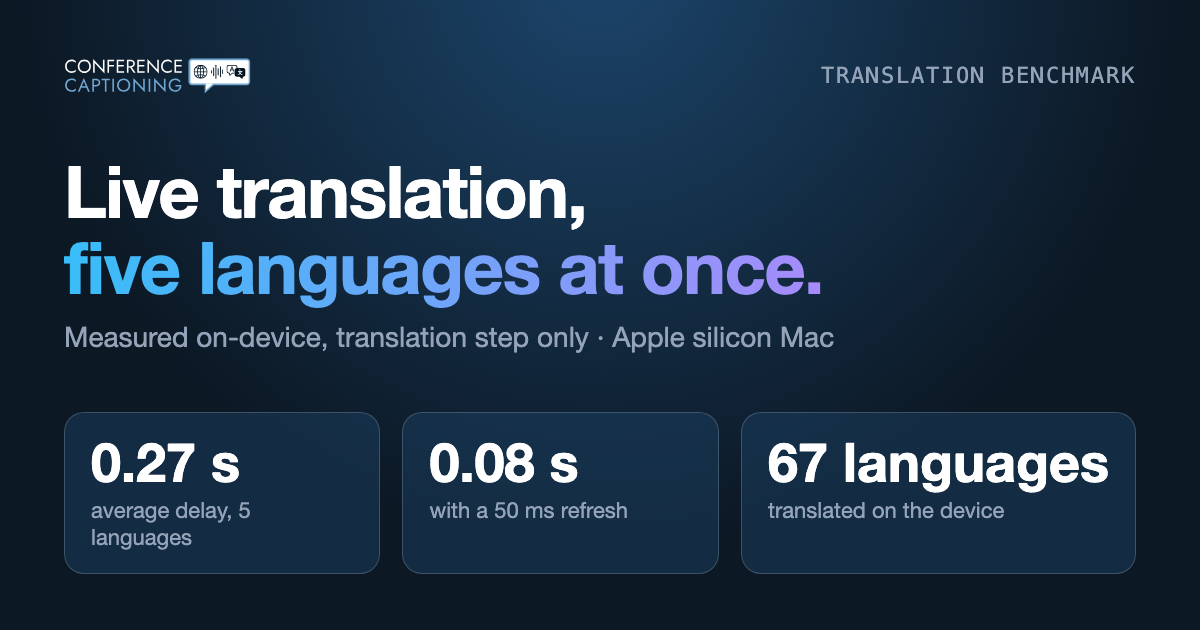
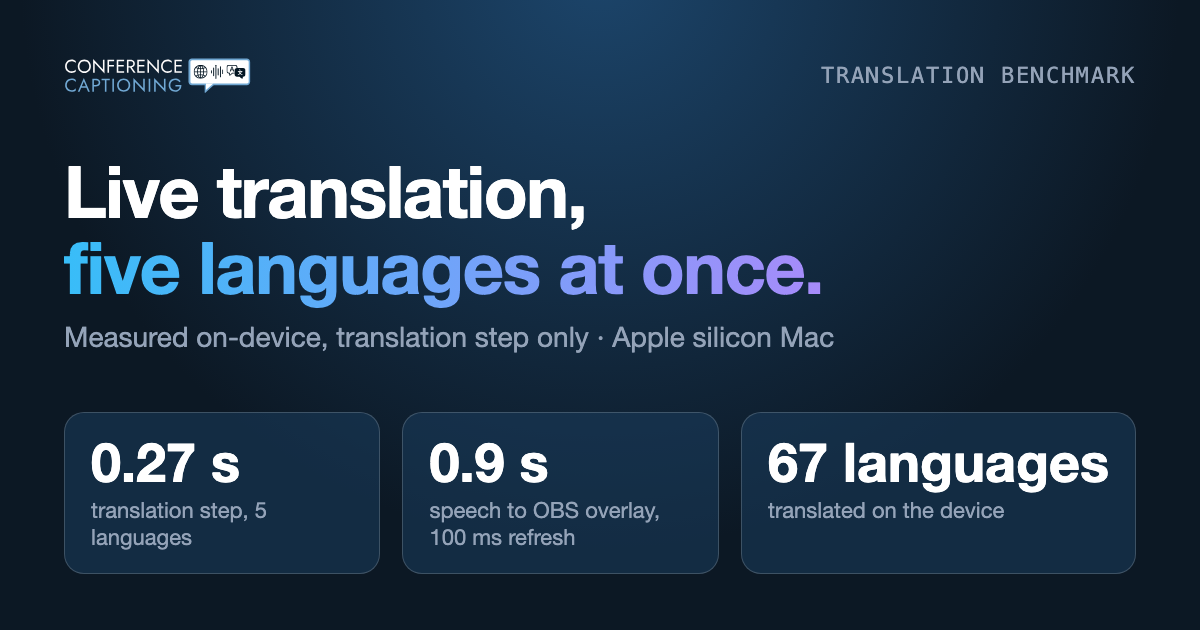
Correct caption delay claims (0.05 s -> per-word 0.6 s); add speech-to-OBS results
Captioning benchmark: per-word delay (Rapid 0.60 s, Mix 3.85 s), explanation, data
file nasa-word-delay.json, changelog entry, sharing image. Homepage strip and deck
page updated. Translation benchmark: new 'From speech to the OBS overlay' section
(1.3/0.9/0.7 s captions, 1.8/1.2/0.9 s for 5 languages at 500/250/100 ms refresh),
KPI, data CSV and sharing image.

Changed region(s): [[0.3392, 0.6937, 0.555, 0.8746], [0.0617, 0.7841, 0.2158, 0.8444]]

diff --git a/benchmark/index.html b/benchmark/index.html
@@ -4,21 +4,21 @@
   <meta charset="UTF-8" />
   <meta name="viewport" content="width=device-width, initial-scale=1.0" />
   <title>Live Captioning Accuracy & Delay Benchmark | ConferenceCaptioning</title>
-  <meta name="description" content="Real-time test of on-device live captions on a NASA news conference: up to 97.2% word accuracy and 0.05 s caption delay on an Apple M4. Method, data and reproduction steps included.">
+  <meta name="description" content="Real-time test of on-device live captions on a NASA news conference: up to 97.2% word accuracy and 0.60 s caption delay on an Apple M4. Method, data and reproduction steps included.">
   <link rel="canonical" href="https://conferencecaptioning.com/benchmark/">
   <meta name="robots" content="index,follow,max-image-preview:large">
   <meta property="og:type" content="article">
   <meta property="og:site_name" content="ConferenceCaptioning">
   <meta property="og:url" content="https://conferencecaptioning.com/benchmark/">
   <meta property="og:title" content="Live Captioning Accuracy & Delay Benchmark | ConferenceCaptioning">
-  <meta property="og:description" content="Real-time test of on-device live captions on a NASA news conference: up to 97.2% word accuracy and 0.05 s caption delay on an Apple M4. Method, data and reproduction steps included.">
+  <meta property="og:description" content="Real-time test of on-device live captions on a NASA news conference: up to 97.2% word accuracy and 0.60 s caption delay on an Apple M4. Method, data and reproduction steps included.">
   <meta property="og:image" content="https://conferencecaptioning.com/benchmark/og-image.png">
   <meta property="og:image:width" content="1200">
   <meta property="og:image:height" content="630">
   <meta property="og:image:alt" content="ConferenceCaptioning live captioning benchmark: word accuracy and caption delay measured on a NASA news conference">
   <meta name="twitter:card" content="summary_large_image">
   <meta name="twitter:title" content="Live Captioning Accuracy & Delay Benchmark | ConferenceCaptioning">
-  <meta name="twitter:description" content="Real-time test of on-device live captions on a NASA news conference: up to 97.2% word accuracy and 0.05 s caption delay on an Apple M4. Method, data and reproduction steps included.">
+  <meta name="twitter:description" content="Real-time test of on-device live captions on a NASA news conference: up to 97.2% word accuracy and 0.60 s caption delay on an Apple M4. Method, data and reproduction steps included.">
   <meta name="twitter:image" content="https://conferencecaptioning.com/benchmark/og-image.png">
   <script type="application/ld+json">
 [
@@ -26,9 +26,9 @@
     "@context": "https://schema.org",
     "@type": "TechArticle",
     "headline": "Live captioning accuracy and delay benchmark: on-device engines on a NASA news conference",
-    "description": "Real-time test of on-device live captions on a NASA news conference: up to 97.2% word accuracy and 0.05 s caption delay on an Apple M4. Method, data and reproduction steps included.",
+    "description": "Real-time test of on-device live captions on a NASA news conference: up to 97.2% word accuracy and 0.60 s caption delay on an Apple M4. Method, data and reproduction steps included.",
     "datePublished": "2026-10-05",
-    "dateModified": "2026-10-05",
+    "dateModified": "2026-10-08",
     "inLanguage": "en",
     "mainEntityOfPage": "https://conferencecaptioning.com/benchmark/",
     "url": "https://conferencecaptioning.com/benchmark/",
@@ -76,7 +76,7 @@
       }
     ],
     "datePublished": "2026-10-05",
-    "dateModified": "2026-10-05",
+    "dateModified": "2026-10-08",
     "inLanguage": "en",
     "isBasedOn": "https://www.youtube.com/watch?v=Ir2X1-FjDxg&t=398s",
     "keywords": [
@@ -205,6 +205,7 @@
 
 
 
+
     /* --- additions: anchors, element ids, scales, CTA --- */
     header.site-header { display: flex; flex-wrap: wrap; justify-content: space-between; align-items: center; gap: 14px 24px; padding: 22px 0 14px; border-bottom: 1px solid rgba(255,255,255,.08); margin-bottom: 18px; }
     header.site-header .brand img { height: 30px; display: block; }
@@ -266,7 +267,7 @@
 
   <div class="eyebrow" id="eyebrow">Benchmark &middot; October 2026</div>
   <h1 id="title">Live captions, <span>measured in real time.</span></h1>
-  <p class="byline" id="byline">By <a href="https://www.linkedin.com/in/saamer" rel="author noopener" target="_blank">Saamer Mansoor</a>, ConferenceCaptioning &middot; Updated <time datetime="2026-10-05">October 5, 2026</time> &middot; <a href="#methodology">Method</a> &middot; <a href="#data-downloads">Data</a> &middot; <a href="#changelog">Changelog</a></p>
+  <p class="byline" id="byline">By <a href="https://www.linkedin.com/in/saamer" rel="author noopener" target="_blank">Saamer Mansoor</a>, ConferenceCaptioning &middot; Updated <time datetime="2026-10-08">October 8, 2026</time> &middot; <a href="#methodology">Method</a> &middot; <a href="#data-downloads">Data</a> &middot; <a href="#changelog">Changelog</a></p>
   <p class="lede" id="intro">We streamed 2 minutes 53 seconds of a real NASA news conference through ConferenceCaptioning&rsquo;s on-device engines at real-time speed, the way a microphone would, and compared the captions with a corrected, word-for-word transcript. Several speakers, technical vocabulary and unusual names. Nothing left the device.</p>
   <div class="chips" id="test-setup">
     <span class="chip">Apple M4</span><span class="chip">16 GB unified memory</span><span class="chip">macOS 27</span>
@@ -277,7 +278,7 @@
     <p><b>Check it yourself.</b> The audio is NASA&rsquo;s <a href="https://www.youtube.com/watch?v=Ir2X1-FjDxg&t=398s" target="_blank" rel="noopener" style="color:var(--brand-accent)">Artemis II post-splashdown news conference (April 10, 2026)</a>. Open it at <b>6:38</b> (the link jumps there); the test runs from 6:38 to 9:31, from &ldquo;They are Amit Kshatriya&hellip;&rdquo; to &ldquo;&hellip;I&rsquo;ll hand it over to Dr. Glaze.&rdquo; Press play and watch our captions beside it, or <a href="#reproduce" style="color:var(--brand-accent)">score the engine of your choice on the same clip</a>.</p>
   </div>
 
-  <div class="kpis" id="key-numbers"><div class="glass kpi" id="kpi-accuracy"><div class="label">Most accurate</div><div class="value">97.2%</div><div class="who">Mix &middot; word accuracy (2.8% word error rate)</div></div><div class="glass kpi" id="kpi-speed"><div class="label">Fastest captions</div><div class="value">0.05 s</div><div class="who">Rapid &middot; average delay</div></div><div class="glass kpi" id="kpi-words"><div class="label">Words checked</div><div class="value">562</div><div class="who">in 173 s of real-time speech</div></div><div class="glass kpi" id="kpi-privacy"><div class="label">Privacy</div><div class="value">On-device</div><div class="who">audio never leaves the device; both engines transcribe locally</div></div></div>
+  <div class="kpis" id="key-numbers"><div class="glass kpi" id="kpi-accuracy"><div class="label">Most accurate</div><div class="value">97.2%</div><div class="who">Mix &middot; word accuracy (2.8% word error rate)</div></div><div class="glass kpi" id="kpi-speed"><div class="label">Fastest captions</div><div class="value">0.60 s</div><div class="who">Rapid &middot; average delay per word</div></div><div class="glass kpi" id="kpi-words"><div class="label">Words checked</div><div class="value">562</div><div class="who">in 173 s of real-time speech</div></div><div class="glass kpi" id="kpi-privacy"><div class="label">Privacy</div><div class="value">On-device</div><div class="who">audio never leaves the device; both engines transcribe locally</div></div></div>
 
   <section id="accuracy">
     <h2 id="accuracy-heading">Accuracy</h2>
@@ -309,14 +310,14 @@
 
   <section id="caption-delay">
     <h2 id="caption-delay-heading">Caption delay</h2>
-    <p class="sub" id="caption-delay-explainer">How long after a word was spoken it appeared on screen. The solid bar is the average; the white marker is the 95th percentile, the delay you would notice on a slow moment. The grey bars are published reference points, not products we tested.</p>
+    <p class="sub" id="caption-delay-explainer">How long after a word was spoken it first appeared in the caption, word by word. The solid bar is the average; the white marker is the 95th percentile, the delay you would notice on a slow moment. The grey bars are published reference points, not products we tested. This is the recognizer alone: the time from the caption to a screen is measured separately on the <a href="https://conferencecaptioning.com/multilingual-translation-benchmark/" style="color:var(--brand-accent)">translation speed benchmark</a>.</p>
     <div class="glass" id="delay-chart"><div class="bars" id="delay-bars">
-        <div class="bar-row" id="delay-bar-rapid"><div class="bar-name">Rapid<small>System speech service<br>95th percentile 0.07 s</small></div><div class="track" role="img" aria-label="Rapid: 0.05 s"><div class="fill short" style="width:0.80%;background:#10b981"></div><div class="val" style="left:calc(0.80% + 10px)">0.05 s</div><div class="p95" style="left:calc(0.70% - 1px)" title="95th percentile"></div></div></div>
-        <div class="bar-row" id="delay-bar-mix"><div class="bar-name">Mix<small>Large model + pause detection<br>95th percentile 1.68 s</small></div><div class="track" role="img" aria-label="Mix: 1.24 s"><div class="fill short" style="width:12.40%;background:#a78bfa"></div><div class="val" style="left:calc(16.80% + 10px)">1.24 s</div><div class="p95" style="left:calc(16.80% - 1px)" title="95th percentile"></div></div></div>
+        <div class="bar-row" id="delay-bar-rapid"><div class="bar-name">Rapid<small>System speech service<br>95th percentile 1.04 s</small></div><div class="track" role="img" aria-label="Rapid: 0.60 s"><div class="fill short" style="width:5.96%;background:#10b981"></div><div class="val" style="left:calc(10.41% + 10px)">0.60 s</div><div class="p95" style="left:calc(10.41% - 1px)" title="95th percentile"></div></div></div>
+        <div class="bar-row" id="delay-bar-mix"><div class="bar-name">Mix<small>Large model + pause detection<br>95th percentile 8.26 s</small></div><div class="track" role="img" aria-label="Mix: 3.85 s"><div class="fill" style="width:38.47%;background:#a78bfa">3.85 s</div><div class="p95" style="left:calc(82.60% - 1px)" title="95th percentile"></div></div></div>
         <div class="bar-row ref" id="delay-bar-ref-cart"><div class="bar-name">Human captioner (CART)<small>2014 study, mean latency</small></div><div class="track" role="img" aria-label="Human captioner (CART): 4.2 s"><div class="fill ref" style="width:42.00%;background:#64748b">4.2 s</div></div></div>
         <div class="bar-row ref" id="delay-bar-ref-asr-2014"><div class="bar-name">Automatic captions, 2014<small>2014 study, per-word latency</small></div><div class="track" role="img" aria-label="Automatic captions, 2014: 7.9 s"><div class="fill ref" style="width:79.00%;background:#64748b">7.9 s</div></div></div>
         <div class="axis"><span></span><div class="ticks"><span>0 s</span><span>2.5 s</span><span>5 s</span><span>7.5 s</span><span>10 s</span></div></div></div>
-      <p class="legend" id="delay-legend">Rapid shows words almost immediately and refines them as it hears more. Mix waits for a natural pause before it commits a phrase, which is why it is later but more accurate. Reference points: a professional human captioner (CART) averaged 4.2 s, and automatic captions of the day averaged 7.9 s per word, in a 2014 classroom study by Kushalnagar, Lasecki and Bigham (<a href="https://roc-hci.com/wp-content/uploads/classroomcaption.pdf" target="_blank" rel="noopener" style="color:var(--brand-accent)">ACM Transactions on Accessible Computing</a>). Today&rsquo;s cloud services are faster than that; we have not measured them.</p></div>
+      <p class="legend" id="delay-legend">Rapid shows words as it hears them and refines them as it hears more, so most words appear about half a second after they are spoken. Mix waits for a natural pause before it commits a phrase; in continuous speech like this news conference those phrases are long, so words arrive in batches, several seconds late on average, in exchange for the better accuracy above. Reference points: a professional human captioner (CART) averaged 4.2 s, and automatic captions of the day averaged 7.9 s per word, in a 2014 classroom study by Kushalnagar, Lasecki and Bigham (<a href="https://roc-hci.com/wp-content/uploads/classroomcaption.pdf" target="_blank" rel="noopener" style="color:var(--brand-accent)">ACM Transactions on Accessible Computing</a>). Today&rsquo;s cloud services are faster than that; we have not measured them. About 60% of the clip&rsquo;s words could be timed this way (those both the engine and the reference recognised with a known spoken time), and spoken times are accurate to roughly a tenth of a second or two.</p></div>
   </section>
 
   <section id="footprint">
@@ -341,8 +342,8 @@
 
   <section id="all-the-numbers">
     <h2 id="all-the-numbers-heading">All the numbers</h2>
-    <p class="sub" id="all-the-numbers-explainer">Both engines ran on the same audio, in the same session, on the same machine. We ran the clip 2 times: word error rate was Rapid 4.8% and Mix 2.8%, average caption delay 0.05 s and 1.24&ndash;1.25 s. The table shows one of the runs.</p>
-    <div class="glass tablewrap" id="numbers-table-box" style="padding:6px 6px 0;"><table id="numbers-table"><thead><tr><th class="l">Engine</th><th class="l">Model</th><th class="">Word accuracy</th><th class="">Word error rate</th><th class="">Words wrong / missed / extra</th><th class="">First caption</th><th class="">Delay avg</th><th class="">Delay p95</th><th class="">Delay max</th><th class="">Caption complete after speech ends</th><th class="">Load time</th><th class="">Peak memory</th><th class="">CPU avg</th></tr></thead><tbody><tr id="numbers-row-rapid"><td class="eng l"><i style="background:#10b981"></i>Rapid</td><td class="l">System speech service (iOS / macOS 26+)</td><td class="">95.2%</td><td class="">4.8%</td><td class="">23 / 4 / 0</td><td class="">1.14 s</td><td class="">0.05 s</td><td class="">0.07 s</td><td class="">1.2 s</td><td class="">0.10 s</td><td class="">0.9 s</td><td class="">74 MB *</td><td class="">7% *</td></tr><tr id="numbers-row-mix"><td class="eng l"><i style="background:#a78bfa"></i>Mix</td><td class="l">Large on-device model + voice-activity detection</td><td class="">97.2%</td><td class="">2.8%</td><td class="">11 / 4 / 1</td><td class="">5.33 s</td><td class="">1.24 s</td><td class="">1.68 s</td><td class="">1.7 s</td><td class="">0.08 s</td><td class="">1.0 s</td><td class="">800 MB</td><td class="">10%</td></tr></tbody></table></div>
+    <p class="sub" id="all-the-numbers-explainer">Both engines ran on the same audio, in the same session, on the same machine. We ran the clip 2 times: word error rate was Rapid 4.8% and Mix 2.8%, delay was measured per word in a dedicated run (see Methodology). The table shows one of the runs.</p>
+    <div class="glass tablewrap" id="numbers-table-box" style="padding:6px 6px 0;"><table id="numbers-table"><thead><tr><th class="l">Engine</th><th class="l">Model</th><th class="">Word accuracy</th><th class="">Word error rate</th><th class="">Words wrong / missed / extra</th><th class="">First caption</th><th class="">Delay avg</th><th class="">Delay p95</th><th class="">Delay max</th><th class="">Caption complete after speech ends</th><th class="">Load time</th><th class="">Peak memory</th><th class="">CPU avg</th></tr></thead><tbody><tr id="numbers-row-rapid"><td class="eng l"><i style="background:#10b981"></i>Rapid</td><td class="l">System speech service (iOS / macOS 26+)</td><td class="">95.2%</td><td class="">4.8%</td><td class="">23 / 4 / 0</td><td class="">1.14 s</td><td class="">0.60 s</td><td class="">1.04 s</td><td class="">1.3 s</td><td class="">0.10 s</td><td class="">0.9 s</td><td class="">74 MB *</td><td class="">7% *</td></tr><tr id="numbers-row-mix"><td class="eng l"><i style="background:#a78bfa"></i>Mix</td><td class="l">Large on-device model + voice-activity detection</td><td class="">97.2%</td><td class="">2.8%</td><td class="">11 / 4 / 1</td><td class="">5.33 s</td><td class="">3.85 s</td><td class="">8.26 s</td><td class="">16.1 s</td><td class="">0.08 s</td><td class="">1.0 s</td><td class="">800 MB</td><td class="">10%</td></tr></tbody></table></div>
   </section>
 
   <section id="methodology">
@@ -355,7 +356,7 @@
       <div class="glass" id="method-engines"><h3>The engines</h3><ul>
         <li>The same code paths the app runs when listening live: <b>Rapid</b> uses the operating system&rsquo;s speech service; <b>Mix</b> uses a large on-device model that waits for natural pauses to commit a phrase.</li>
         <li>Models are downloaded and warmed up before the run, as in the app&rsquo;s setup screen; load time is reported separately.</li>
-        <li>Caption delay: for every caption update, how far the newest word in it was behind the audio, that is, how long after it was spoken it appeared. The 95th percentile is the slower moments.</li></ul></div>
+        <li>Caption delay: for every word, the time from when it was spoken (taken from the recognizer&rsquo;s own final, time-stamped result for the clip) to the first moment it appeared in the engine&rsquo;s caption. Words are matched to the reference words by sequence alignment, so only words both recognised are timed. The 95th percentile is the slower moments.</li></ul></div>
       <div class="glass" id="method-scoring"><h3>The scoring</h3><ul>
         <li>The reference transcript started from the video&rsquo;s automatic captions and was corrected by hand against the recording.</li>
         <li>Case, punctuation and numbers are normalised; words are aligned with a word-level edit distance; score = (wrong + missed + extra) &divide; reference words. The exact rules are in the scoring script below.</li>
@@ -378,6 +379,7 @@
       <li><a href="data/nasa-benchmark-results.json" style="color:var(--brand-accent)">nasa-benchmark-results.json</a>: every number on this page, with the run details.</li>
       <li><a href="data/nasa-benchmark-results.csv" style="color:var(--brand-accent)">nasa-benchmark-results.csv</a>: the same, one row per engine.</li>
       <li><a href="data/nasa-reference-transcript.txt" style="color:var(--brand-accent)">nasa-reference-transcript.txt</a>: the corrected reference. <code>{a|b}</code> lists accepted spellings, <code>{x|~}</code> may be skipped, and <code>*</code> is a wildcard for one unintelligible word.</li>
+      <li><a href="data/nasa-word-delay.json" style="color:var(--brand-accent)">nasa-word-delay.json</a>: the per-word caption delay of each engine (mean, median, 95th percentile, maximum, words timed).</li>
       <li><a href="data/score_wer.py" style="color:var(--brand-accent)">score_wer.py</a>: the scoring script (Python 3, no packages needed).</li></ul></div>
 
 
@@ -400,7 +402,7 @@
         <li>English only, and only our own engines: we have not compared other captioning products on this clip.</li></ul></div>
       <div class="glass" id="choosing-an-engine"><h3>Choosing an engine</h3><ul>
         <li><b>Rapid</b>: fastest captions and lightest on memory and power; needs iOS or macOS 26.</li>
-        <li><b>Mix</b>: top accuracy, works on older systems (iOS 17 / macOS 14), captions about a second later.</li></ul></div>
+        <li><b>Mix</b>: top accuracy, works on older systems (iOS 17 / macOS 14), captions several seconds later on continuous speech (about 4 s on average here).</li></ul></div>
       <div class="glass" id="translation-speed"><h3>Translation speed</h3><ul>
         <li>These numbers are for captions in the speaker&rsquo;s language. For how fast translations appear in up to five other languages at once, see the <a href="https://conferencecaptioning.com/multilingual-translation-benchmark/" style="color:var(--brand-accent)">translation speed benchmark</a>.</li></ul></div>
     </div>
@@ -409,6 +411,7 @@
   <section id="changelog">
     <h2 id="changelog-heading">Changelog</h2>
     <div class="glass" id="changelog-box"><ul style="padding-left:20px;color:var(--text-muted)">
+      <li><b>October 8, 2026</b>: corrected the caption delay. It was measured as how far each caption update was behind the audio fed so far, which understated the delay (Rapid 0.05 s, Mix 1.24 s). It is now timed per word, from when the word was spoken to when it first appeared (Rapid 0.60 s, Mix 3.85 s on average).</li>
       <li><b>October 5, 2026</b>: added the methodology, reproduction steps, data downloads and this changelog; numbers are now in the page itself.</li>
       <li><b>October 5, 2026</b>: replaced the September test (a different, noisier clip with four engines) with this NASA news conference clip and the Rapid and Mix engines; reference accepts spelling variants; added power measurements.</li>
       <li><b>September 30, 2026</b>: first published benchmark.</li></ul></div>

diff --git a/multilingual-translation-benchmark/index.html b/multilingual-translation-benchmark/index.html
@@ -4,28 +4,28 @@
   <meta charset="UTF-8" />
   <meta name="viewport" content="width=device-width, initial-scale=1.0" />
   <title>Live Translation Speed Benchmark: 5 Languages at Once | ConferenceCaptioning</title>
-  <meta name="description" content="Measured on a 10-core Apple silicon Mac: with five target languages translating at once, each on-screen translation stayed within 0.27 s of the spoken word on average and 0.54 s at the 95th percentile. Method and data included.">
+  <meta name="description" content="Measured on a 10-core Apple silicon Mac: with five target languages translating at once, the translation step added 0.27 s on average (0.54 s at the 95th percentile). From speech to the OBS overlay, words appeared on average within 0.9 s with five languages at the fastest refresh setting. Method and data included.">
   <link rel="canonical" href="https://conferencecaptioning.com/multilingual-translation-benchmark/">
   <meta name="robots" content="index,follow,max-image-preview:large">
   <meta property="og:type" content="article">
   <meta property="og:site_name" content="ConferenceCaptioning">
   <meta property="og:url" content="https://conferencecaptioning.com/multilingual-translation-benchmark/">
   <meta property="og:title" content="Live Translation Speed Benchmark: 5 Languages at Once | ConferenceCaptioning">
-  <meta property="og:description" content="Measured on a 10-core Apple silicon Mac: with five target languages translating at once, each on-screen translation stayed within 0.27 s of the spoken word on average and 0.54 s at the 95th percentile. Method and data included.">
+  <meta property="og:description" content="Measured on a 10-core Apple silicon Mac: with five target languages translating at once, the translation step added 0.27 s on average (0.54 s at the 95th percentile). From speech to the OBS overlay, words appeared on average within 0.9 s with five languages at the fastest refresh setting. Method and data included.">
   <meta property="og:image" content="https://conferencecaptioning.com/multilingual-translation-benchmark/og-image.png">
   <meta property="og:image:width" content="1200">
   <meta property="og:image:height" content="630">
   <meta name="twitter:image" content="https://conferencecaptioning.com/multilingual-translation-benchmark/og-image.png">
   <meta name="twitter:card" content="summary_large_image">
   <meta name="twitter:title" content="Live Translation Speed Benchmark: 5 Languages at Once | ConferenceCaptioning">
-  <meta name="twitter:description" content="Measured on a 10-core Apple silicon Mac: with five target languages translating at once, each on-screen translation stayed within 0.27 s of the spoken word on average and 0.54 s at the 95th percentile. Method and data included.">
+  <meta name="twitter:description" content="Measured on a 10-core Apple silicon Mac: with five target languages translating at once, the translation step added 0.27 s on average (0.54 s at the 95th percentile). From speech to the OBS overlay, words appeared on average within 0.9 s with five languages at the fastest refresh setting. Method and data included.">
   <script type="application/ld+json">
 [
   {
     "@context": "https://schema.org",
     "@type": "TechArticle",
     "headline": "Live translation speed benchmark: five languages at once",
-    "description": "Measured on a 10-core Apple silicon Mac: with five target languages translating at once, each on-screen translation stayed within 0.27 s of the spoken word on average and 0.54 s at the 95th percentile. Method and data included.",
+    "description": "Measured on a 10-core Apple silicon Mac: with five target languages translating at once, the translation step added 0.27 s on average (0.54 s at the 95th percentile). From speech to the OBS overlay, words appeared on average within 0.9 s with five languages at the fastest refresh setting. Method and data included.",
     "url": "https://conferencecaptioning.com/multilingual-translation-benchmark/",
     "image": "https://conferencecaptioning.com/multilingual-translation-benchmark/og-image.png",
     "license": "https://creativecommons.org/licenses/by/4.0/",
@@ -170,6 +170,7 @@
 
 
 
+
     /* --- additions: anchors, element ids, scales, CTA --- */
     header.site-header { display: flex; flex-wrap: wrap; justify-content: space-between; align-items: center; gap: 14px 24px; padding: 22px 0 14px; border-bottom: 1px solid rgba(255,255,255,.08); margin-bottom: 18px; }
     header.site-header .brand img { height: 30px; display: block; }
@@ -238,11 +239,27 @@
     <span class="chip">3 words per second</span><span class="chip">1&ndash;5 languages at once</span><span class="chip">30 timed runs</span>
   </div>
 
-  <div class="kpis" id="key-numbers"><div class="glass kpi" id="kpi-delay"><div class="label">Average delay, 5 languages</div><div class="value">0.27 s</div><div class="who">Blazing &middot; per translated word, 95th percentile 0.54 s</div></div><div class="glass kpi" id="kpi-worst"><div class="label">Slowest single word</div><div class="value">0.61 s</div><div class="who">across every run and language count</div></div><div class="glass kpi" id="kpi-words"><div class="label">Words timed</div><div class="value">8,840</div><div class="who">across 30 timed runs of 40 s each</div></div><div class="glass kpi" id="kpi-privacy"><div class="label">Privacy</div><div class="value">On-device</div><div class="who">translation runs locally; text is not sent to a translation service</div></div></div>
+  <div class="kpis" id="key-numbers"><div class="glass kpi" id="kpi-delay"><div class="label">Translation step, 5 languages</div><div class="value">0.27 s</div><div class="who">Blazing &middot; per translated word, 95th percentile 0.54 s</div></div><div class="glass kpi" id="kpi-e2e"><div class="label">Speech to OBS overlay</div><div class="value">0.9 s</div><div class="who">average, 5 languages, fastest refresh (100 ms), speech recognition included</div></div><div class="glass kpi" id="kpi-words"><div class="label">Words timed</div><div class="value">8,840</div><div class="who">across 30 timed runs of 40 s each</div></div><div class="glass kpi" id="kpi-privacy"><div class="label">Privacy</div><div class="value">On-device</div><div class="who">translation runs locally; text is not sent to a translation service</div></div></div>
 
   <section id="summary">
     <h2 id="summary-heading">The short version</h2>
-    <div class="glass" id="summary-box"><p style="color:var(--text-muted)">With five languages translating together, the average word appeared on screen <b>0.27 s</b> after it was available, <b>0.54 s</b> for 95 out of 100 words, and the slowest word in any run took <b>0.61 s</b>. Adding languages from one to five changed the average delay only slightly (see the table), because each translation takes a few tens of milliseconds on the device. That is well under a second, so for this part of the pipeline &ldquo;five languages in under a second&rdquo; holds. With the refresh interval turned down to 50 ms, five languages averaged <b>0.08 s</b> (see <a href="#faster-polling">faster refresh</a>), at the cost of more processor time. It is <b>not</b> the delay an audience sees end to end: it excludes speech recognition, which comes first (see <a href="#what-is-not-measured">what is not measured</a>).</p></div>
+    <div class="glass" id="summary-box"><p style="color:var(--text-muted)">With five languages translating together, the average word appeared on screen <b>0.27 s</b> after it was available, <b>0.54 s</b> for 95 out of 100 words, and the slowest word in any run took <b>0.61 s</b>. Adding languages from one to five changed the average delay only slightly (see the table), because each translation takes a few tens of milliseconds on the device. That is well under a second, so for this part of the pipeline &ldquo;five languages in under a second&rdquo; holds. With the refresh interval turned down to 50 ms, five languages averaged <b>0.08 s</b> (see <a href="#faster-polling">faster refresh</a>), at the cost of more processor time. This is the translation step only; the delay from speech to the screen, with speech recognition included, is in <a href="#speech-to-screen">the next section</a>.</p></div>
+  </section>
+
+  <section id="speech-to-screen">
+    <h2 id="speech-to-screen-heading">From speech to the OBS overlay</h2>
+    <p class="sub" id="speech-to-screen-explainer">The test that matters most for an event: how long after a word is spoken does it show on the page you put into OBS, a vMix browser source or a stage display? We replayed a recorded news conference through the same local pages the app serves, with the on-device speech recognizer in the loop, and timed every word from the moment it was spoken to the moment it was visible in the overlay (including the scroll animation). Translations were timed the same way, in the last of the translated languages, which is the slowest one.</p>
+    <div class="glass tablewrap" id="speech-to-screen-table-box" style="padding:6px 6px 0;"><table id="speech-to-screen-table"><thead><tr><th class="l">Refresh setting</th><th class="">Captions only</th><th class="">1 language</th><th class="">3 languages</th><th class="">5 languages</th></tr></thead><tbody><tr id="e2e-row-500"><td class="eng l">Default (500 ms)</td><td class="">1.3 s <small style="color:var(--text-muted)">(95%: 1.9 s)</small></td><td class="">1.5 s <small style="color:var(--text-muted)">(95%: 2.3 s)</small></td><td class="">1.6 s <small style="color:var(--text-muted)">(95%: 2.3 s)</small></td><td class="">1.8 s <small style="color:var(--text-muted)">(95%: 2.4 s)</small></td></tr><tr id="e2e-row-250"><td class="eng l">Faster (250 ms)</td><td class="">0.9 s <small style="color:var(--text-muted)">(95%: 1.5 s)</small></td><td class="">1.1 s <small style="color:var(--text-muted)">(95%: 1.6 s)</small></td><td class="">1.1 s <small style="color:var(--text-muted)">(95%: 1.7 s)</small></td><td class="">1.2 s <small style="color:var(--text-muted)">(95%: 1.7 s)</small></td></tr><tr id="e2e-row-100"><td class="eng l">Fastest (100 ms)</td><td class="">0.7 s <small style="color:var(--text-muted)">(95%: 1.3 s)</small></td><td class="">0.8 s <small style="color:var(--text-muted)">(95%: 1.3 s)</small></td><td class="">0.8 s <small style="color:var(--text-muted)">(95%: 1.4 s)</small></td><td class="">0.9 s <small style="color:var(--text-muted)">(95%: 1.4 s)</small></td></tr></tbody></table></div>
+    <p class="note" id="speech-to-screen-note">Average time from a word being spoken to it being visible, with the 95th percentile in brackets. &ldquo;Refresh setting&rdquo; is how often both the translation page and the overlay check for new text (the <code>pollInterval</code> option in the Caption URL Generator); 60 s per run, 3 runs per setting, first 10 s discarded.</p>
+    <div class="glass" id="speech-to-screen-summary" style="margin-top:16px"><h3>What this means</h3><ul>
+      <li><b>At the fastest setting (100 ms), words appear on average within 0.7 s of being spoken for captions and 0.9 s with five translated languages</b>, and 95% of words within 1.4 s.</li>
+      <li>At the default setting the average is 1.3 s for captions and 1.8 s for five languages, so we do not claim &ldquo;under a second&rdquo; for the default.</li>
+      <li>Roughly 0.5 s of every figure is the speech recognizer itself (the Rapid engine); the rest is the pipeline, which the refresh setting controls. Faster refresh uses more processor time (browser CPU rose from about 21% to 31% of one core for one language).</li>
+      <li>Languages add little: going from one to five languages adds about 0.1 s at the fastest setting and 0.2 s at the default.</li></ul></div>
+    <div class="glass" id="speech-to-screen-limits" style="margin-top:16px"><h3>What this does not include</h3><ul>
+      <li>The microphone, the room and the sound mixer: the audio is a clean recording played at real-time speed, and a recorded recognizer run is replayed so every setting sees the same speech. Real rooms add noise that makes recognition less accurate, not necessarily slower.</li>
+      <li>OBS itself: it adds about one video frame (17&ndash;33 ms) on top. Attendee phones and the cloud stream are separate paths and are not measured here.</li>
+      <li>One clip (a clean press conference), one Mac (Apple M4), English into Spanish, French, German, Japanese and Portuguese. Only words with a known spoken time (about 60% of the clip) are timed.</li></ul></div>
   </section>
 
   <section id="translation-delay">
@@ -284,7 +301,7 @@
     <h2 id="what-is-not-measured-heading">What is not measured</h2>
     <div class="cols" id="not-measured-boxes">
       <div class="glass" id="not-measured"><h3>Not in these numbers</h3><ul>
-        <li><b>Speech recognition.</b> The transcript here is scripted. In a live event the words first have to be recognised, which takes between 0.05 s and about 1.2 s depending on the engine (see the <a href="https://conferencecaptioning.com/benchmark/" style="color:var(--brand-accent)">captioning benchmark</a>). Add that to the delay above for the full speaker-to-screen time.</li>
+        <li><b>Speech recognition (in this section).</b> The transcript here is scripted. In a live event the words first have to be recognised, which takes about 0.5 s on average for our fastest engine (Rapid) and several seconds for the more accurate Mix engine on continuous speech (see the <a href="https://conferencecaptioning.com/benchmark/" style="color:var(--brand-accent)">captioning benchmark</a>). The <a href="#speech-to-screen">speech-to-screen section</a> includes it.</li>
         <li><b>Delivery to the audience.</b> Sending results to attendees&rsquo; phones and the attendee refresh interval come on top.</li>
         <li><b>Real audio, other languages and other machines.</b> One transcript, five target languages, one Mac. Quality of the translations was not scored here.</li></ul></div>
       <div class="glass" id="how-to-read-this"><h3>How to read the delay</h3><ul>
@@ -311,7 +328,8 @@
     </div>
     <h3 id="data-downloads" style="margin:26px 0 8px">Data and files</h3>
     <div class="glass" id="data-downloads-box"><ul style="padding-left:20px;color:var(--text-muted)">
-      <li><a href="data/translation-benchmark-results.json" style="color:var(--brand-accent)">translation-benchmark-results.json</a> and <a href="data/translation-benchmark-results.csv" style="color:var(--brand-accent)">.csv</a>: every run, with delay statistics per language count.</li></ul></div>
+      <li><a href="data/translation-benchmark-results.json" style="color:var(--brand-accent)">translation-benchmark-results.json</a> and <a href="data/translation-benchmark-results.csv" style="color:var(--brand-accent)">.csv</a>: every translation-step run, with delay statistics per language count, plus the language groups and the speech-to-screen summary.</li>
+      <li><a href="data/speech-to-screen-results.csv" style="color:var(--brand-accent)">speech-to-screen-results.csv</a>: the table in &ldquo;From speech to the OBS overlay&rdquo;.</li></ul></div>
     <h3 id="license" style="margin:26px 0 8px">License</h3>
     <div class="glass" id="license-box"><p style="color:var(--text-muted)">The data is licensed <a href="https://creativecommons.org/licenses/by/4.0/" rel="license noopener" target="_blank" style="color:var(--brand-accent)">CC BY 4.0</a>: share and adapt it, including commercially, with credit to ConferenceCaptioning and a link to <a href="https://conferencecaptioning.com/multilingual-translation-benchmark/" style="color:var(--brand-accent)">https://conferencecaptioning.com/multilingual-translation-benchmark/</a>.</p></div>
     <h3 id="cite" style="margin:26px 0 8px">Cite this page</h3>
@@ -321,6 +339,7 @@
   <section id="changelog">
     <h2 id="changelog-heading">Changelog</h2>
     <div class="glass" id="changelog-box"><ul style="padding-left:20px;color:var(--text-muted)">
+      <li><b>October 8, 2026</b>: added &ldquo;From speech to the OBS overlay&rdquo;, timing words from speech to the overlay with speech recognition included.</li>
       <li><b>October 5, 2026</b>: first published.</li></ul></div>
   </section>
 

diff --git a/deck/one.html b/deck/one.html
@@ -101,7 +101,7 @@ footer{display:grid;grid-template-columns:1fr 1fr 1.1fr;gap:24px}
       <div class="lab">Proof and traction</div>
       <div class="tiles">
         <div class="tile"><b>97.2%</b><span>accuracy</span></div>
-        <div class="tile"><b>0.05s</b><span>caption delay</span></div>
+        <div class="tile"><b>0.5s</b><span>avg word-to-caption delay</span></div>
         <div class="tile"><b>0.5s</b><span>failover</span></div>
       </div>
       <div class="cap">Open on-device benchmark: live NASA press conference.</div>
@@ -131,7 +131,7 @@ footer{display:grid;grid-template-columns:1fr 1fr 1.1fr;gap:24px}
 <b>Hook.</b> Every day, at every event, there are people in the room who can't fully take part. In Michigan, 733,000 people are deaf or hard of hearing and over a million speak another language at home.<br>
 <b>Solution.</b> This is Bali: 10,000+ people in one room. One speaker in English; on the screens beside him, Mandarin, Bahasa, Thai and English at once. Attendees just scan a QR code.<br>
 <b>How.</b> The AI runs on the organizer's own device, not in a data center. It works offline, so events skip the $2,500 to $5,000 dedicated internet line.<br>
-<b>Proof.</b> Live NASA press conference, on-device: 97.2% word accuracy, captions in 0.05 s, failover in as little as 0.5 s. All numbers published. 6+ countries, 20+ cities, 1M+ words. YMCA and Apple are customers.<br>
+<b>Proof.</b> Live NASA press conference, on-device: 97.2% word accuracy, captions about 0.5 s behind the speaker on average, failover in as little as 0.5 s. All numbers published. 6+ countries, 20+ cities, 1M+ words. YMCA and Apple are customers.<br>
 <b>Traction.</b> $30K ARR, half subscriptions and half events. Customers are AV companies and organizers at non-profits and city governments. AV companies add us to their checklist and upsell us to every client they have, so one partner brings repeat events with different organizers. Unlimited plan: $4,800 a year. Two in five demos become customers.<br>
 <b>Ask.</b> Goal: $500K ARR in 18 months, 15x today. Raising $1.25M: 50% sales and marketing, 25% product, 25% operations and compliance.<br>
 <b>Close.</b> Everyone deserves to understand the room they're in. Scan the QR code and try it.

diff --git a/index.html b/index.html
@@ -506,7 +506,7 @@ You can find the code of your language here - https://www.w3schools.com/tags/ref
                             <div class="col-lg-7">
                                 <div class="row">
                                     <div class="col-sm-4 mb-sm-20"><div class="bm-stat"><strong>97.2%</strong><span>word accuracy, best case (Mix engine, clean broadcast audio)</span></div></div>
-                                    <div class="col-sm-4 mb-sm-20"><div class="bm-stat"><strong>0.05 s</strong><span>average caption delay on the device (Rapid engine, Apple M4)</span></div></div>
+                                    <div class="col-sm-4 mb-sm-20"><div class="bm-stat"><strong>0.5 s</strong><span>average time from a spoken word to its caption on the device (Rapid engine, Apple M4)</span></div></div>
                                     <div class="col-sm-4"><div class="bm-stat"><strong>On-device</strong><span>audio never leaves the device</span></div></div>
                                 </div>
                             </div>
